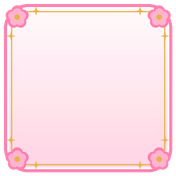
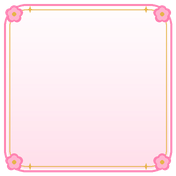
feat: 대사창을 미연시답게 반투명하게, 높이는 글만큼만
- 대사창이 반투명해서 뒤의 배경과 스탠딩이 비친다. 글에는 흰 테두리를 둘러 읽히게 함
- 대사창은 화면 아래에 붙고 글이 길 때만 위로 자란다. 테두리와 모서리 장식을 가늘게
- 선택지와 위쪽 표시도 반투명하게 해서 그림을 덜 가린다
- 기다리는 안내를 대사창 밖(이름표 옆, 말풍선 아래)으로 옮김

Claude-Session: https://claude.ai/code/session_012ECvBEXPWRhj7ZeRFikyrZ

Changed region(s): [[0.0, 0.0, 0.9943, 0.9943]]

diff --git a/renpy/dev/make_ui_art.py b/renpy/dev/make_ui_art.py
@@ -125,19 +125,22 @@ def with_glow(im, color, radius):
 # ------------------------------------------------------------------ 대사창
 
 def textbox():
-    """대사창. 9칸 늘이기, 테두리 56. 모서리에 꽃, 금색 속테두리."""
+    """대사창. 9칸 늘이기, 테두리 56. 모서리에 작은 꽃, 가는 금색 속테두리.
+
+    미연시의 대사창답게 반투명하다. 뒤의 배경과 스탠딩이 비쳐 보이고,
+    글은 Ren'Py 쪽에서 흰 테두리를 둘러 읽히게 한다.
+    """
     w = h = 176
     im = new(w, h)
-    grad_rr(im, (4, 4, w - 4, h - 4), 24, rgba(CREAM, 238), rgba("#ffd3e3", 240))
-    line_rr(im, (4, 4, w - 4, h - 4), 24, rgba(PINK), 3)
-    line_rr(im, (11, 11, w - 11, h - 11), 17, rgba(GOLD, 230), 1.4)
-    line_rr(im, (7.2, 7.2, w - 7.2, h - 7.2), 21, rgba(WHITE, 235), 1.6)
-    for cx, cy in ((17, 17), (w - 17, 17), (17, h - 17), (w - 17, h - 17)):
-        flower(im, cx, cy, 11, rgba(PINK), rgba(GOLD_PALE))
-        flower(im, cx, cy, 8.4, rgba("#ffb3cf"), rgba(GOLD))
-    for cx, cy in ((36, 11), (w - 36, 11), (36, h - 11), (w - 36, h - 11),
-                   (11, 36), (w - 11, 36), (11, h - 36), (w - 11, h - 36)):
-        sparkle(im, cx, cy, 4.2, rgba(GOLD))
+    grad_rr(im, (4, 4, w - 4, h - 4), 22, rgba(CREAM, 138), rgba("#ffcfe0", 176))
+    line_rr(im, (4, 4, w - 4, h - 4), 22, rgba(PINK, 235), 2)
+    line_rr(im, (9.5, 9.5, w - 9.5, h - 9.5), 17, rgba(GOLD, 215), 1)
+    line_rr(im, (6.4, 6.4, w - 6.4, h - 6.4), 20, rgba(WHITE, 200), 1.2)
+    for cx, cy in ((14, 14), (w - 14, 14), (14, h - 14), (w - 14, h - 14)):
+        flower(im, cx, cy, 8.4, rgba(PINK), rgba(GOLD_PALE))
+        flower(im, cx, cy, 6.2, rgba("#ffb3cf"), rgba(GOLD))
+    for cx, cy in ((30, 9.5), (w - 30, 9.5), (30, h - 9.5), (w - 30, h - 9.5)):
+        sparkle(im, cx, cy, 3.2, rgba(GOLD))
     save(im, w, h, "gal_textbox")
 
 
@@ -225,7 +228,7 @@ def plate():
     """위쪽 표시의 바탕 판. 테두리 22."""
     w, h = 72, 48
     im = new(w, h)
-    grad_rr(im, (2, 2, w - 2, h - 2), 16, rgba(CREAM, 236), rgba("#ffdcea", 236))
+    grad_rr(im, (2, 2, w - 2, h - 2), 16, rgba(CREAM, 200), rgba("#ffdcea", 206))
     line_rr(im, (2, 2, w - 2, h - 2), 16, rgba(PINK), 2.4)
     line_rr(im, (5, 5, w - 5, h - 5), 13, rgba(WHITE, 230), 1.3)
     save(im, w, h, "gal_plate")
@@ -238,7 +241,7 @@ def sign():
     for x in (22, w - 22):
         layer(im, lambda d, x=x: d.line(box(x, 12, w / 2, 2), fill=rgba("#b98a5a"), width=round(1.6 * S)))
     layer(im, lambda d: d.ellipse(box(w / 2 - 3, 0, w / 2 + 3, 6), fill=rgba(GOLD)))
-    grad_rr(im, (2, 12, w - 2, h - 2), 9, rgba("#e9f6ff", 240), rgba(SKY, 240))
+    grad_rr(im, (2, 12, w - 2, h - 2), 9, rgba("#e9f6ff", 212), rgba(SKY, 216))
     line_rr(im, (2, 12, w - 2, h - 2), 9, rgba(SKY_DEEP), 2.4)
     line_rr(im, (5, 15, w - 5, h - 5), 6, rgba(WHITE, 230), 1.3)
     for x in (12, w - 12):
@@ -303,17 +306,17 @@ def cloud():
     w, h, pad, step = 290, 32 * 2 + 72, 13, 36
     im = new(w, h)
     def bumps(d):
-        d.rounded_rectangle(box(pad, pad, w - pad, h - pad), radius=18 * S, fill=rgba(WHITE, 248))
+        d.rounded_rectangle(box(pad, pad, w - pad, h - pad), radius=18 * S, fill=rgba(WHITE, 232))
         n = round((w - 2 * pad - 24) / step)
         for i in range(n + 1):
             x = pad + 12 + (w - 2 * pad - 24) * i / n
             for y in (pad + 3, h - pad - 3):
-                d.ellipse(box(x - 21, y - 13, x + 21, y + 13), fill=rgba(WHITE, 248))
+                d.ellipse(box(x - 21, y - 13, x + 21, y + 13), fill=rgba(WHITE, 232))
         for y in (32 + 18, 32 + 54):
             for x in (pad + 2, w - pad - 2):
-                d.ellipse(box(x - 12, y - 19, x + 12, y + 19), fill=rgba(WHITE, 248))
+                d.ellipse(box(x - 12, y - 19, x + 12, y + 19), fill=rgba(WHITE, 232))
         for x, y in ((pad + 7, pad + 8), (w - pad - 7, pad + 8), (pad + 7, h - pad - 8), (w - pad - 7, h - pad - 8)):
-            d.ellipse(box(x - 15, y - 14, x + 15, y + 14), fill=rgba(WHITE, 248))
+            d.ellipse(box(x - 15, y - 14, x + 15, y + 14), fill=rgba(WHITE, 232))
     layer(im, bumps)
     edge = im.getchannel("A").filter(ImageFilter.MaxFilter(2 * S + 1))
     outline = Image.new("RGBA", im.size, rgba(PINK_SOFT))
@@ -467,7 +470,7 @@ def main():
     textbox()
     nametag()
     ctc()
-    bar("gal_choice", rgba(WHITE, 242), rgba("#ffd6e6", 242), rgba(PINK))
+    bar("gal_choice", rgba(WHITE, 196), rgba("#ffd6e6", 204), rgba(PINK))   # 스탠딩이 비치게 반투명
     bar("gal_choice_hover", rgba("#fffbe6", 255), rgba("#ffc2da", 255), rgba(PINK_DEEP), rgba("#ff8fbd", 210))
     button("gal_btn", rgba("#ff9cc2"), rgba("#f25a93"), rgba(WHITE))
     button("gal_btn_hover", rgba("#ffb6d2"), rgba("#ff6fa5"), rgba(WHITE), rgba("#ff8fbd", 220))
